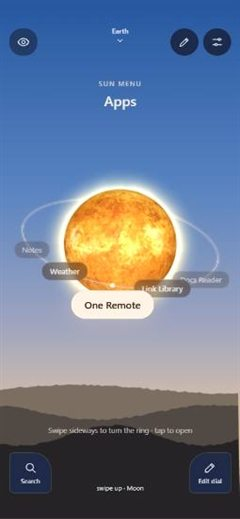
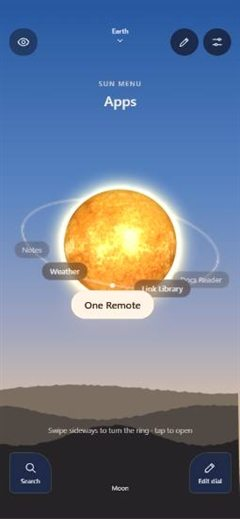
Sun Launcher v114: Sun and Moon match on Dial, Clock and Today; short labels; Edit list on the Moon

Changed region(s): [[0.2625, 0.3699, 0.7292, 0.5549], [0.4083, 0.9249, 0.6125, 0.9557]]

diff --git a/index.html b/index.html
@@ -816,7 +816,6 @@ label[for="photo-stars"] { background-image: url("sky-night.jpg"); }
 #app.ls-pills.sv-clock .facet:not(.front) { background: color-mix(in srgb, var(--panel) 72%, transparent) !important; border-color: color-mix(in srgb, var(--sun) 28%, var(--line)) !important; padding: 0 13px; }
 #app.ls-pills .item:not(.card):not(.sel), #app.mm-pills .item:not(.card):not(.sel) { background: rgba(74, 92, 150, .92); border: 1.5px solid rgba(225, 232, 248, .6); color: #fff; border-radius: 22px; padding: 0 14px 0 8px; text-shadow: none; }
 #app.ls-pills .item.sel:not(.card), #app.mm-pills .item.sel:not(.card) { background: var(--moon); color: var(--moon-ink); border-radius: 24px; padding: 0 16px 0 8px; text-shadow: none; }
-#app.ls-pills.ml-dial .item.sel::before { color: var(--moon-ink); border-right-color: var(--moon-ink); }
 /* v110 (user): the Dial's small round items match on the Sun and the Moon, and show a little more */
 #app.ml-dial3d .item:not(.sel) { background: rgba(38, 54, 94, .94); border-color: rgba(235, 240, 250, .6); }
 #app:not(.sv) .facet.mini { width: 40px; height: 40px; padding: 0; justify-content: center; background: rgba(38, 54, 94, .94) !important; border: 1.5px solid rgba(235, 240, 250, .6) !important; }
@@ -825,6 +824,18 @@ label[for="photo-stars"] { background-image: url("sky-night.jpg"); }
 .roundbtn.editl { right: calc(72px + env(safe-area-inset-right, 0px)); }
 #app.watch .roundbtn.editl, #app.editing .roundbtn.editl { opacity: 0; pointer-events: none; }
 @media (max-width: 400px) { .handle.top { width: 116px; margin-left: -58px; font-size: 11px; white-space: nowrap; overflow: hidden; } }
+/* v114 (user): the small round items on the Sun's Dial show letters, like the Moon's */
+#app:not(.sv) .facet.mini .ini img { display: none; }
+#app:not(.sv) .facet.mini .ini:has(img)::before { content: attr(data-l); }
+/* v114 (user): on Clock the Moon's chosen item has a round letter, the same shape as the Sun's */
+#app.ml-dial .item.sel { padding-left: 6px; }
+#app.ml-dial .item.sel::before { content: attr(data-ini); width: 34px; height: 34px; margin-right: 10px; border: none; border-radius: 50%; display: grid; place-items: center; line-height: 1; font-weight: 700; background: var(--moon); color: var(--moon-ink); }
+#app.ls-pills.ml-dial .item.sel::before { background: var(--moon-ink); color: var(--moon); }
+/* v114 (user): on Today the Moon's rows have a round letter and no group name, the same as the Sun's */
+#app .item.card .grp { display: none; }
+#app .item.card .dot { width: 30px; height: 30px; flex: none; border: none; border-radius: 50%; background: rgba(238, 240, 245, .22); display: grid; place-items: center; font-size: 13px; font-weight: 700; color: #EEF0F5; box-shadow: none; }
+#app .item.card .dot::before { content: attr(data-ini); }
+#app .item.card.sel .dot { background: var(--moon-ink); border-color: var(--moon-ink); color: var(--moon); }
 </style>
 
 <div id="app">
@@ -843,7 +854,7 @@ label[for="photo-stars"] { background-image: url("sky-night.jpg"); }
     <button type="button" id="pTimer" class="ptimer" aria-label="Timer, tap to open" hidden><svg viewBox="0 0 24 24" aria-hidden="true"><circle cx="12" cy="12" r="9" fill="none" stroke="rgba(255,255,255,.25)" stroke-width="1.2"/><circle id="pTimerArc" cx="12" cy="12" r="9" fill="none" stroke="#fff" stroke-width="1.4" stroke-dasharray="56.5" stroke-dashoffset="0" transform="rotate(-90 12 12)" stroke-linecap="round"/></svg><span id="pTimerT" aria-live="off"></span></button>
     <button type="button" class="planet-handle" id="planetUp" aria-label="Open the sun menu">
       <svg width="20" height="20" viewBox="0 0 24 24" fill="none" stroke="currentColor" stroke-width="2" stroke-linecap="round" stroke-linejoin="round" aria-hidden="true"><path d="M7 14l5-5 5 5"></path></svg>
-      <span>Swipe up · Sun menu</span>
+      <span>Sun</span>
     </button>
   </div>
   <div id="worlds">
@@ -882,10 +893,10 @@ label[for="photo-stars"] { background-image: url("sky-night.jpg"); }
         <span>Edit dial</span>
       </button>
       <div class="favbar" id="favBar" aria-label="Pinned apps" hidden></div>
-      <div class="vstrip" id="sunStrip" role="group" aria-label="Sun screen: slide sideways to change it"><div class="vs-peek" hidden></div><div class="vs-nm"><button type="button" class="vs-prev" aria-label="Previous screen">‹</button><span class="vs-name" aria-live="polite"></span><button type="button" class="vs-next" aria-label="Next screen">›</button></div><div class="vs-dots" aria-hidden="true"></div><div class="vs-sub">swipe up · Moon</div></div>
+      <div class="vstrip" id="sunStrip" role="group" aria-label="Sun screen: slide sideways to change it"><div class="vs-peek" hidden></div><div class="vs-nm"><button type="button" class="vs-prev" aria-label="Previous screen">‹</button><span class="vs-name" aria-live="polite"></span><button type="button" class="vs-next" aria-label="Next screen">›</button></div><div class="vs-dots" aria-hidden="true"></div><div class="vs-sub">Moon</div></div>
       <button type="button" class="handle bottom" id="toMoon" aria-label="Open the moon menu" tabindex="-1" aria-hidden="true">
         <svg width="22" height="22" viewBox="0 0 24 24" fill="none" stroke="currentColor" stroke-width="2" stroke-linecap="round" stroke-linejoin="round" aria-hidden="true"><path d="M7 14l5-5 5 5"></path></svg>
-        <span><svg width="16" height="16" viewBox="0 0 24 24" fill="none" stroke="currentColor" stroke-width="1.8" stroke-linejoin="round" aria-hidden="true"><path d="M15 4a8 8 0 1 0 5 13A7 7 0 0 1 15 4z"></path></svg>Swipe up · Moon</span>
+        <span><svg width="16" height="16" viewBox="0 0 24 24" fill="none" stroke="currentColor" stroke-width="1.8" stroke-linejoin="round" aria-hidden="true"><path d="M15 4a8 8 0 1 0 5 13A7 7 0 0 1 15 4z"></path></svg>Moon</span>
       </button>
     </section>
 
@@ -897,11 +908,15 @@ label[for="photo-stars"] { background-image: url("sky-night.jpg"); }
       <div id="scrub" class="scrub" aria-hidden="true"></div>
       <div id="bubble" class="bubble" aria-hidden="true" hidden><small id="bubbleGroup"></small><span id="bubbleName"></span></div>
       <button type="button" class="handle top" id="toSun" aria-label="Back to the sun menu">
-        <span><svg width="16" height="16" viewBox="0 0 24 24" fill="none" stroke="currentColor" stroke-width="1.8" stroke-linecap="round" aria-hidden="true"><circle cx="12" cy="12" r="4"></circle><path d="M12 3v2M12 19v2M3 12h2M19 12h2M5.6 5.6l1.4 1.4M17 17l1.4 1.4M5.6 18.4L7 17M17 7l1.4-1.4"></path></svg>Swipe down · Sun</span>
+        <span><svg width="16" height="16" viewBox="0 0 24 24" fill="none" stroke="currentColor" stroke-width="1.8" stroke-linecap="round" aria-hidden="true"><circle cx="12" cy="12" r="4"></circle><path d="M12 3v2M12 19v2M3 12h2M19 12h2M5.6 5.6l1.4 1.4M17 17l1.4 1.4M5.6 18.4L7 17M17 7l1.4-1.4"></path></svg>Sun</span>
         <svg width="22" height="22" viewBox="0 0 24 24" fill="none" stroke="currentColor" stroke-width="2" stroke-linecap="round" stroke-linejoin="round" aria-hidden="true"><path d="M7 10l5 5 5-5"></path></svg>
       </button>
       <button type="button" class="mini-sun" id="miniSun" aria-label="Camera: take a photo and send it to an app" hidden>
         <svg width="28" height="28" viewBox="0 0 24 24" fill="none" stroke="currentColor" stroke-width="1.9" stroke-linejoin="round" aria-hidden="true"><path d="M4 8h3l2-2h6l2 2h3v11H4z"></path><circle cx="12" cy="13" r="3.5"></circle></svg>
+      </button>
+      <button type="button" class="corner br" id="moonEdit" aria-label="Edit list: order and place your apps">
+        <svg width="24" height="24" viewBox="0 0 24 24" fill="none" stroke="currentColor" stroke-width="1.8" stroke-linecap="round" stroke-linejoin="round" aria-hidden="true"><path d="M4 20h4L19 9l-4-4L4 16z"></path><path d="M13 7l4 4"></path></svg>
+        <span>Edit list</span>
       </button>
       <button type="button" class="corner bl" id="moonSearch" aria-label="Search apps and functions; your recent apps are at the top">
         <svg width="24" height="24" viewBox="0 0 24 24" fill="none" stroke="currentColor" stroke-width="1.8" stroke-linecap="round" aria-hidden="true"><circle cx="11" cy="11" r="6"></circle><path d="M20 20l-4.5-4.5"></path></svg>
@@ -1480,7 +1495,7 @@ label[for="photo-stars"] { background-image: url("sky-night.jpg"); }
   'use strict';
   const $ = (id) => document.getElementById(id);
   const realText = (s) => /^\[.*\]$/.test(s || '') ? '' : s;  // v111: "[One line on ...]" waits for real text; it is not shown
-  const APP_VERSION = 'v113';  // v61: shown in Updates and About (sw.js CACHE has the same number)
+  const APP_VERSION = 'v114';  // v61: shown in Updates and About (sw.js CACHE has the same number)
   const setText = (id, t) => { const el = $(id); if (el.textContent !== t) el.textContent = t; };  // v59
   let reduce = false;
   try { reduce = window.matchMedia('(prefers-reduced-motion: reduce)').matches; } catch (e) {}
@@ -3159,6 +3174,7 @@ label[for="photo-stars"] { background-image: url("sky-night.jpg"); }
       ini.className = 'ini';
       ini.setAttribute('aria-hidden', 'true');
       fillIcon(ini, a);
+      ini.dataset.l = a.name.charAt(0);  // v114: the small round items on the Dial show letters, like the Moon's
       const nm = document.createElement('span');
       nm.className = 'nm';
       nm.textContent = a.name;
@@ -3575,7 +3591,7 @@ label[for="photo-stars"] { background-image: url("sky-night.jpg"); }
         const tl = clamp(-Math.asin(clamp((p[1] - G.cy) / (G.R * 1.02), -1, 1)) * 180 / Math.PI, -78, 78);
         el.style.transform = 'translate(' + p[0].toFixed(1) + 'px,' + p[1].toFixed(1) + 'px) translate(-50%,-50%) scale(' + p[2].toFixed(3) + ') perspective(520px) rotateX(' + tl.toFixed(1) + 'deg)';
       } else {
-        el.style.transform = 'translate(' + p[0].toFixed(1) + 'px,' + p[1].toFixed(1) + 'px) translate(-50%,-100%) scale(' + p[2].toFixed(3) + ')';
+        el.style.transform = 'translate(' + p[0].toFixed(1) + 'px,' + (p[1] + 58 * clamp(1 - dd / 0.3, 0, 1)).toFixed(1) + 'px) translate(-50%,-100%) scale(' + p[2].toFixed(3) + ')';  // v114 (user)
       }
       el.classList.toggle('flip', flip);
       el.style.zIndex = String(500 + Math.round(p[3]));
@@ -3601,7 +3617,7 @@ label[for="photo-stars"] { background-image: url("sky-night.jpg"); }
     }
     let maxY = 0, minY = H;
     for (let m = 0; m < 24; m++) { const pm = G.polar(G.R, m / 24 * 2 * Math.PI); if (pm[1] > maxY) maxY = pm[1]; if (pm[1] < minY) minY = pm[1]; }
-    let top = maxY + 26, showInfo = true;
+    let top = maxY + 26 + 44, showInfo = true;
     if (st.land) top = H * 0.26;
     else if (top + 130 > H - 110) { top = 100; showInfo = minY - 70 > 240; }
     $('sunInfo').style.top = Math.round(top) + 'px';
@@ -4012,7 +4028,7 @@ label[for="photo-stars"] { background-image: url("sky-night.jpg"); }
       const b = document.createElement('button');
       b.type = 'button';
       b.className = 'item' + (it.app ? ' app' : '');
-      const d = document.createElement('span'); d.className = 'dot'; d.setAttribute('aria-hidden', 'true');
+      const d = document.createElement('span'); d.className = 'dot'; d.setAttribute('aria-hidden', 'true'); d.dataset.ini = it.name.charAt(0);
       const t = document.createElement('span'); t.textContent = it.name; t.className = 'nm';
       b.dataset.ini = it.name.charAt(0);
       const gr = document.createElement('small'); gr.className = 'grp'; gr.setAttribute('aria-hidden', 'true'); gr.textContent = it.group;
@@ -4446,8 +4462,8 @@ label[for="photo-stars"] { background-image: url("sky-night.jpg"); }
       }
       c.restore();
       txt('Moon', 24, H * 0.165 - 26, 12, 600, 'rgba(195, 204, 221, 0.85)', 'left', true);
-      txt(DAYS[today.getDay()] + ' ' + today.getDate() + ' ' + MONTHS[today.getMonth()], 24, H * 0.155, 28, 300, '#F5EFE3');
-      if (cur) txt(cur.group + ' · ' + (live + 1) + ' of ' + LIST.length, 24, H * 0.195, 13, 400, 'rgba(195, 204, 221, 0.9)');
+      txt(DAYS[today.getDay()] + ' ' + today.getDate() + ' ' + MONTHS[today.getMonth()], 24, H * 0.165, 28, 300, '#F5EFE3');
+      if (cur) txt(cur.group + ' · ' + (live + 1) + ' of ' + LIST.length, 24, H * 0.2, 13, 400, 'rgba(195, 204, 221, 0.9)');
       txt('Turn the dial · tap to open', W / 2, H * 0.9, 12.5, 400, 'rgba(195, 204, 221, 0.85)', 'center');
       scene = { kind: 'dial', C0: C0, C1: C1, r: 318 * k };
     } else if (look === 'moondial' || look === 'dial3d') {
@@ -4470,8 +4486,8 @@ label[for="photo-stars"] { background-image: url("sky-night.jpg"); }
         else moonDraw(c, sx, sy, R, { mode: 'moon', light: moonLight([0.62, 0.55, 0.05]), roll: moonRoll(), rot: -0.3, shine: 0.17, expo: 1.3, glow: 0.8, margin: 1.2 });
       }
       ringHalf(true);
-      txt('Moon menu', txtX(W), st.land ? H * 0.3 : H * 0.125 + st.top, 12, 600, 'rgba(195, 204, 221, 0.85)', 'center', true);
-      if (cur) txt(cur.group, txtX(W), st.land ? H * 0.4 : H * 0.16 + st.top, 24, 500, '#F5EFE3', 'center');
+      // v114 (user): on the Dial the words sit below, like the Sun's (moonInfo); Ring keeps its heading above on both
+      if (!d3 || st.land) { txt('Moon menu', txtX(W), st.land ? H * 0.3 : H * 0.125 + st.top, 12, 600, 'rgba(195, 204, 221, 0.85)', 'center', true); if (cur) txt(cur.group, txtX(W), st.land ? H * 0.4 : H * 0.16 + st.top, 24, 500, '#F5EFE3', 'center'); }
       txt('Swipe sideways to turn the ring · tap to open', txtX(W), st.land ? H * 0.52 : H * 0.83, 12.5, 400, 'rgba(195, 204, 221, 0.85)', 'center');
       const s0 = ringPlace(scene, Math.PI / 2);
       c.beginPath(); c.arc(s0[0], s0[1], 4, 0, 2 * Math.PI); c.fillStyle = '#fff'; c.fill();
@@ -4563,7 +4579,7 @@ label[for="photo-stars"] { background-image: url("sky-night.jpg"); }
       $('moonHint').textContent = cur.app ? realText(cur.hint) : cur.group + ' · ' + (live + 1) + ' of ' + LIST.length;
       lastLive = live;
     }
-    $('moonInfo').style.top = Math.round(H + 40) + 'px';
+    $('moonInfo').style.top = Math.round(look === 'dial3d' && !st.land && scene ? ringPlace(scene, Math.PI / 2)[1] + 72 : H + 40) + 'px';
     $('moonTip').hidden = true;
     const sc = $('scrub'); sc.style.width = '0px';
   }
@@ -7708,7 +7724,7 @@ label[for="photo-stars"] { background-image: url("sky-night.jpg"); }
   try { if (navigator.storage && navigator.storage.persisted) navigator.storage.persisted().then((p) => p || !navigator.storage.persist ? p : navigator.storage.persist()).then((p) => { storageKept = !!p; }).catch(() => {}); } catch (e) {}
   function mb(b) { return (b / 1048576).toFixed(b < 10485760 ? 1 : 0) + ' MB'; }
   function sheetInfo(title, text, actions) { openSheet(title, text, '', false, actions); $('sheetText').style.whiteSpace = 'pre-line'; }
-  const NEWS = 'v113 · The flight now spirals in: each planet comes into view as you curve towards it, and you pass close to the Moon. Sun and Moon match better on every screen. Each list can loop or stop at its ends. New Corona and Flames moons, soft eclipse rays, stronger Neon, softer Disco light. An Edit button on every screen.';
+  const NEWS = 'v114 · The Sun and Moon now match on the Dial, Clock and Today, with short labels and an Edit list corner on the Moon. The flight now spirals in: each planet comes into view as you curve towards it, and you pass close to the Moon. Sun and Moon match better on every screen. Each list can loop or stop at its ends. New Corona and Flames moons, soft eclipse rays, stronger Neon, softer Disco light. An Edit button on every screen.';
   const FUNC_RUN = {
     // Look
     'Theme': () => openSettingsAt('Look follows the time of day'),
@@ -8189,7 +8205,8 @@ label[for="photo-stars"] { background-image: url("sky-night.jpg"); }
     renderFavBar();
     kick();
   }
-  $('sunEdit').addEventListener('click', () => { renderEdit(); showOverlay($('edit')); });
+  // v114 (user): the Moon has the same corner as the Sun, with the same editor
+  [['sunEdit', 'Edit dial'], ['moonEdit', 'Edit list']].forEach(([id, title]) => $(id).addEventListener('click', () => { $('editTitle').textContent = title; renderEdit(); showOverlay($('edit')); }));
   $('editDone').addEventListener('click', () => hideOverlay($('edit')));
   $('editReset').addEventListener('click', () => { S.order = APP_LIST.map((a) => a.name); S.onMoon = []; changed(); });  // v64: order only (your apps stay)
   $('addApp').addEventListener('click', () => openAppForm(null));

diff --git a/sw.js b/sw.js
@@ -2,7 +2,7 @@
 // because Docs Reader and Scanner share this web address (harisonbd.github.io).
 // v42: two caches. CACHE (app code, new each version, ~0.3 MB) and MEDIA (photos and maps, kept across
 // versions so an update does not download them again). Change MEDIA only when a picture's content changes.
-const CACHE = 'sun-launcher-v113';
+const CACHE = 'sun-launcher-v114';
 const MEDIA = 'sun-launcher-media-1';
 const FILES = ['./', './index.html', './manifest.webmanifest', './icon-192.png', './icon-512.png', './icon-maskable-512.png'];
 const PICS = ['./tex-sun.jpg', './tex-moon.jpg', './sky-sunset.jpg', './sky-dawn.jpg', './sky-day.jpg', './sky-bluehour.jpg', './sky-night.jpg', './sky-overcast.jpg', './sky-rain.jpg', './sky-snow.jpg', './sky-snow-night.jpg', './sky-fog.jpg', './sky-storm.jpg', './saturn.jpg', './saturn-ring.png', './earth-day.jpg', './earth-night.jpg', './earth-clouds.jpg'];
